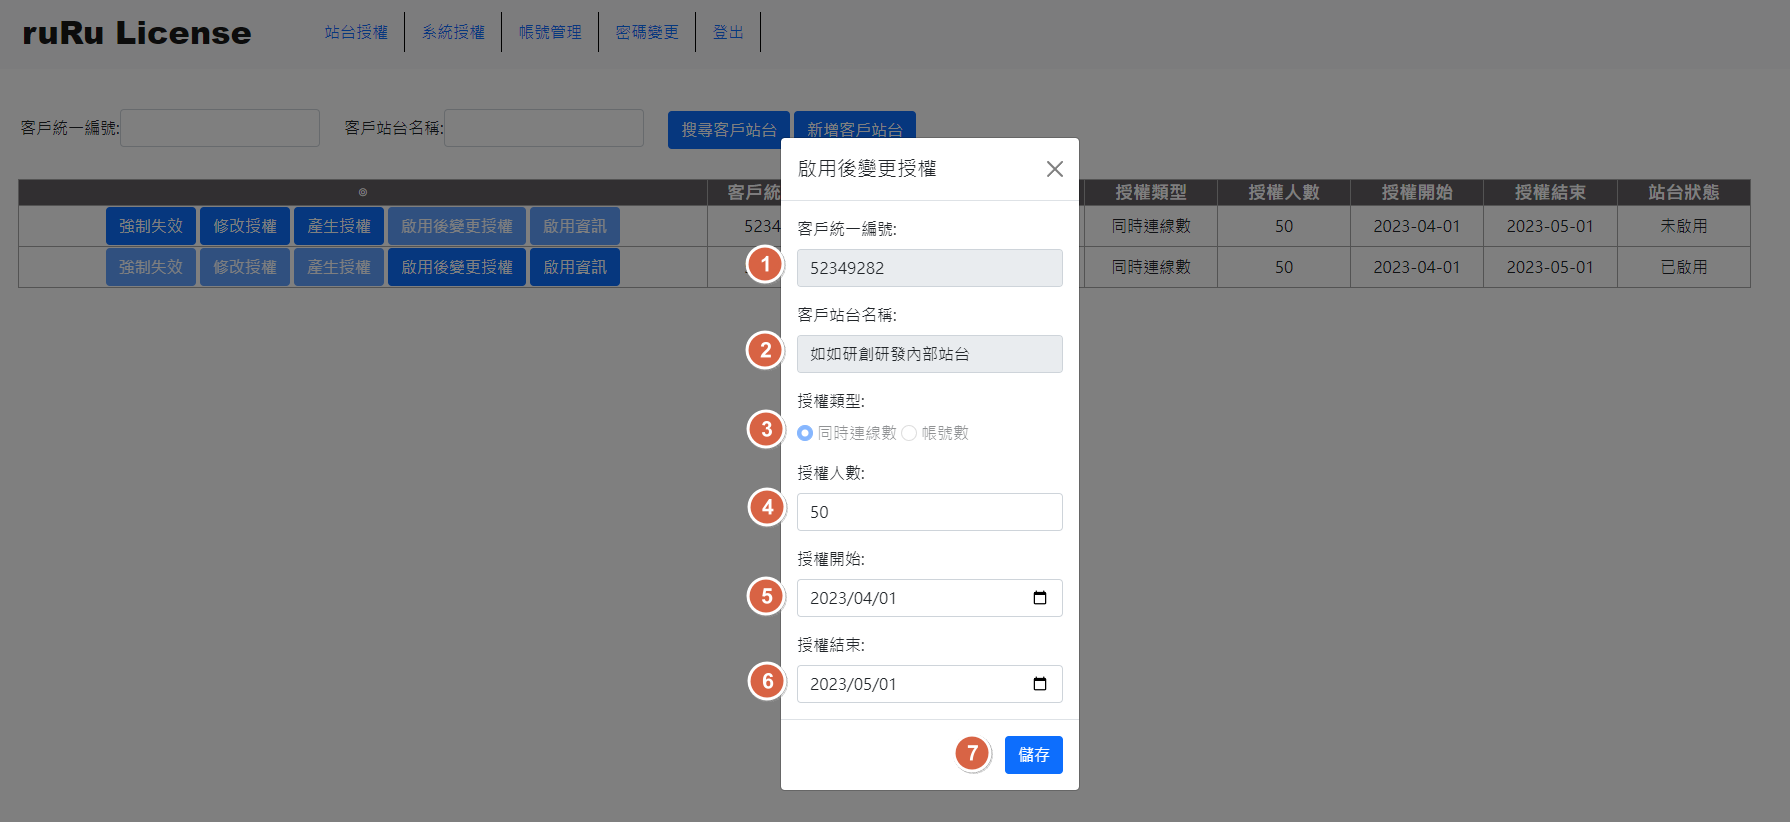
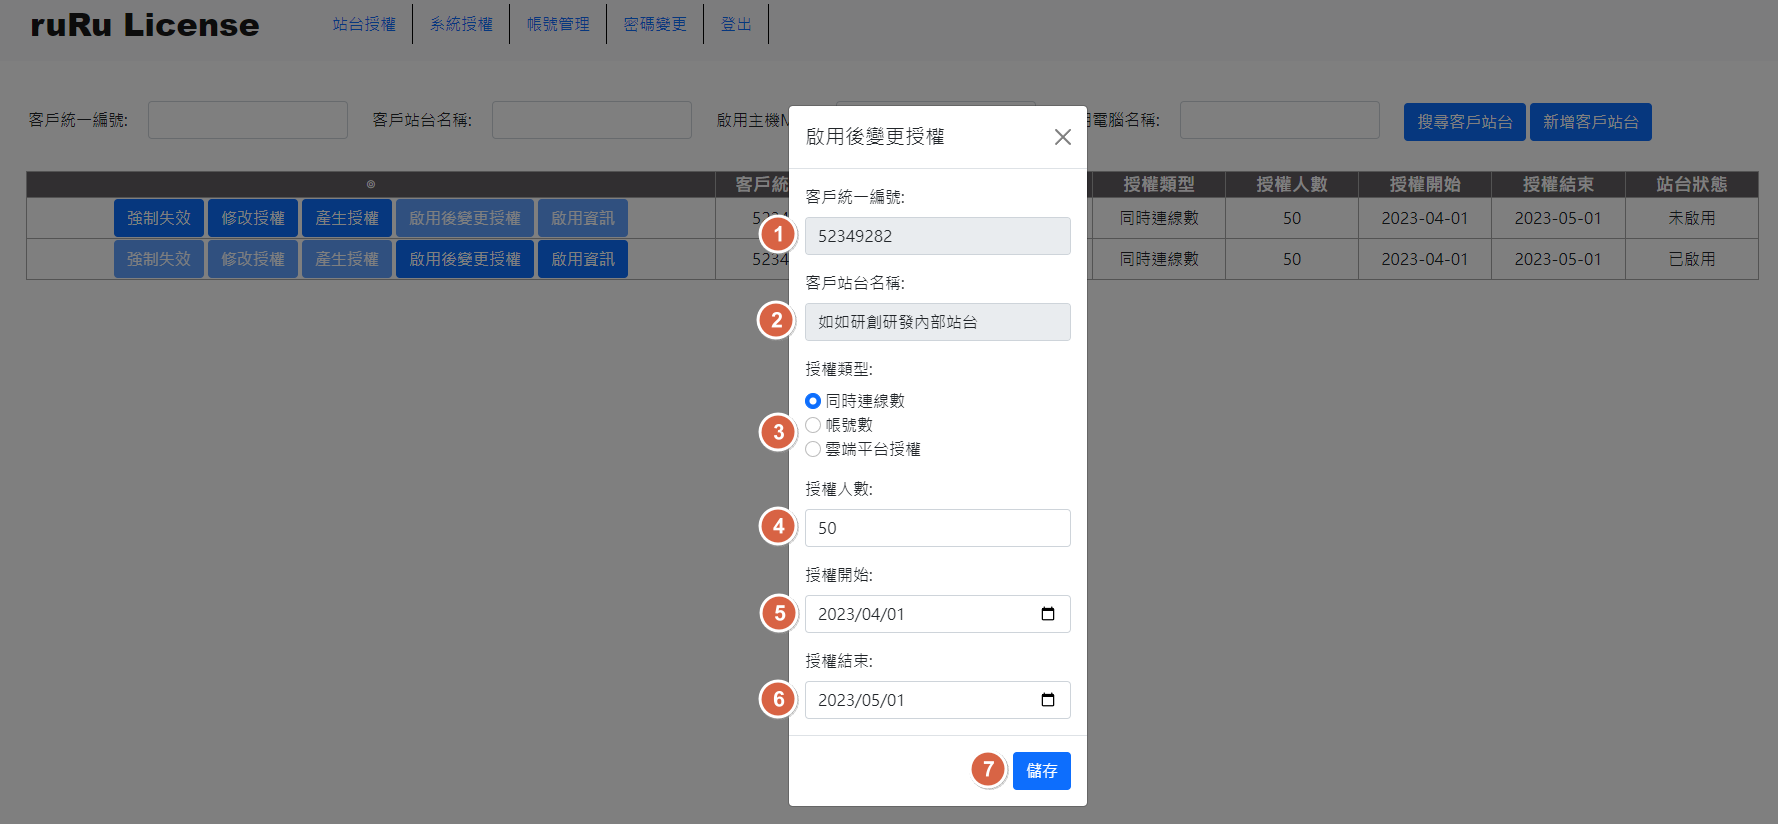
#9213增加站台授權類型

Changed region(s): [[0.0, 0.1217, 0.9899, 1.0], [0.1856, 0.0, 0.4331, 0.0608], [0.0, 0.0, 0.1547, 0.0608]]

diff --git a/8.10.2/LICENSE/homepage/README.md b/8.10.2/LICENSE/homepage/README.md
@@ -60,6 +60,7 @@
             * 數字型態
               * 1=同時連線數
               * 2=帳號數
+              * 3=雲端平台授權
           * count : 授權數量
             * 數字型態
           * startdate : 授權開始日期
@@ -122,17 +123,28 @@
     * radio欄位，選項如下
       * 同時連線數
       * 帳號數
+      * 雲端平台授權
+        * 當勾選雲端平台授權時，將以下欄位內容清除並除能
+          * 欄位.授權人數
+          * 欄位.授權開始
+          * 欄位.授權結束
   * 4.欄位.授權人數
     * 必要欄位
     * 數字型態欄位
+    * 除致能條件
+      * 當欄位.授權類型 = 雲端平台授權時除能，反之致能
   * 5.欄位.授權開始
     * 必要欄位
     * 日期型態欄位
     * 可輸入也可點擊開起日期視窗挑選
+    * 除致能條件
+      * 當欄位.授權類型 = 雲端平台授權時除能，反之致能
   * 6.欄位.授權結束
     * 必要欄位
     * 日期型態欄位
     * 可輸入也可點擊開起日期視窗挑選
+    * 除致能條件
+      * 當欄位.授權類型 = 雲端平台授權時除能，反之致能
   * 7.按鈕.儲存
     * 點擊後，執行以下檢查
       * 上述必要欄位是否不為空，若發現有空白請在欄位下方顯示錯誤訊息【[欄位名稱]()不可空白】(如:客戶統一編號不可空白)
@@ -155,17 +167,28 @@
     * radio欄位，選項如下
       * 同時連線數
       * 帳號數
+      * 雲端平台授權
+        * 當勾選雲端平台授權時，將以下欄位內容清除並除能
+          * 欄位.授權人數
+          * 欄位.授權開始
+          * 欄位.授權結束
   * 4.欄位.授權人數
     * 必要欄位
     * 數字型態欄位
+    * 除致能條件
+      * 當欄位.授權類型 = 雲端平台授權時除能，反之致能
   * 5.欄位.授權開始
     * 必要欄位
     * 日期型態欄位
     * 可輸入也可點擊開起日期視窗挑選
+    * 除致能條件
+      * 當欄位.授權類型 = 雲端平台授權時除能，反之致能
   * 6.欄位.授權結束
     * 必要欄位
     * 日期型態欄位
     * 可輸入也可點擊開起日期視窗挑選
+    * 除致能條件
+      * 當欄位.授權類型 = 雲端平台授權時除能，反之致能
   * 7.按鈕.儲存
     * 點擊後，執行以下檢查
       * 上述必要欄位是否不為空，若發現有空白請在欄位下方顯示錯誤訊息【[欄位名稱]()不可空白】(如:客戶統一編號不可空白)
@@ -191,18 +214,25 @@
     * radio欄位，選項如下
       * 同時連線數
       * 帳號數
+      * 雲端平台授權
     * 僅唯讀，不可修改
   * 4.欄位.授權人數
     * 必要欄位
     * 數字型態欄位
+    * 除致能條件
+      * 當欄位.授權類型 = 雲端平台授權時除能，反之致能
   * 5.欄位.授權開始
     * 必要欄位
     * 日期型態欄位
     * 可輸入也可點擊開起日期視窗挑選
+    * 除致能條件
+      * 當欄位.授權類型 = 雲端平台授權時除能，反之致能
   * 6.欄位.授權結束
     * 必要欄位
     * 日期型態欄位
     * 可輸入也可點擊開起日期視窗挑選
+    * 除致能條件
+      * 當欄位.授權類型 = 雲端平台授權時除能，反之致能
   * 7.按鈕.儲存
     * 點擊後，執行以下檢查
       * 上述必要欄位是否不為空，若發現有空白請在欄位下方顯示錯誤訊息【[欄位名稱]()不可空白】(如:客戶統一編號不可空白)
